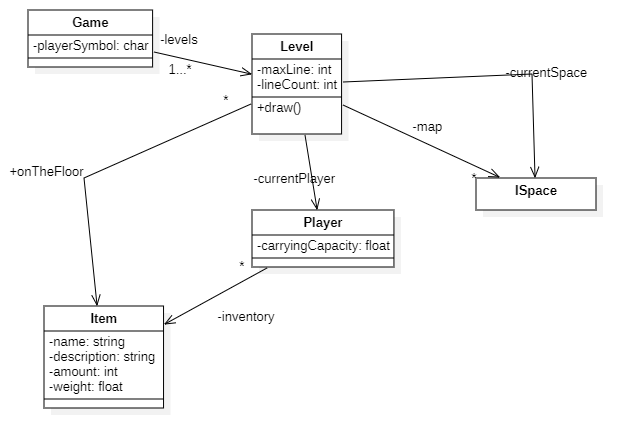
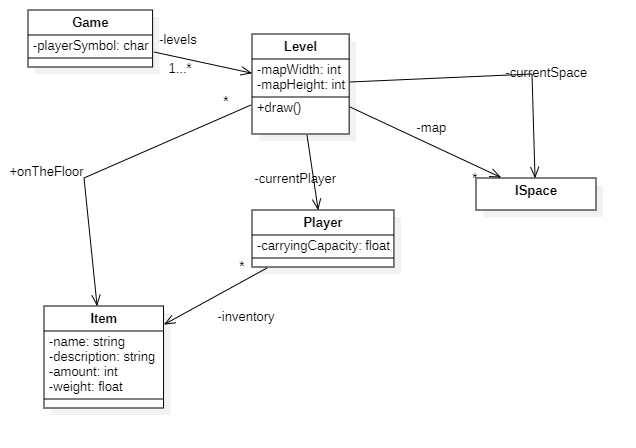
Cleaned up variable names, did the better default "wall" stuff

diff --git a/COEN244AdventureGameV1/Level.cpp b/COEN244AdventureGameV1/Level.cpp
@@ -22,7 +22,7 @@ Level::Level(std::ifstream& levelFile) {
 	//looking for the longest line
 	while (getline(levelFile, line)) {
 		lines++;
-		if (line.size() > maxLine) maxLine = line.size();
+		if (line.size() > mapWidth) mapWidth = (int)line.size();
 	}
 
 
@@ -36,54 +36,53 @@ Level::Level(std::ifstream& levelFile) {
 	levelFile.seekg(0, ios::beg);
 
 
-	cout << maxLine << " " << lines << " " << (maxLine*lines) << endl;
+	cout << mapWidth << " " << lines << " " << (mapWidth*lines) << endl;
 
-	map = new ISpace*[maxLine * lines];
+	map = new ISpace*[mapWidth * lines];
 	lines = 0;
 
 	//We loop through all the lines
 	//We print the lines to the beginning of 
 	//the corresponding line in the dynamic array
 	//that represents the level
-	Wall *aWall = new Wall();
 	while (getline(levelFile, line)) {
 		int i;
 		for (i = 0; i < line.size(); i++) {
 			switch (line[i]) {
 			case '#' :
-				map[maxLine * lines + i] = aWall;
+				map[mapWidth * lines + i] = Wall::WALL;
 				break;
 			case '@' :
-				map[maxLine * lines + i] = new Floor(*aWall);
-				currentSpace = map[maxLine * lines + i];
+				map[mapWidth * lines + i] = new Floor();
+				currentSpace = map[mapWidth * lines + i];
 				break;
 			case '.':
-				map[maxLine * lines + i] = new Floor(*aWall);
+				map[mapWidth * lines + i] = new Floor();
 				break;
 			default:
-				map[maxLine * lines + i] = new Other(*aWall, line[i]);
+				map[mapWidth * lines + i] = new Other(line[i]);
 				break;
 			}
 			
 		}
 		//If the map line was short, print spaces
-		for (; i < maxLine; i++) {
-			map[maxLine * lines + i] = new VoidSpace();
+		for (; i < mapWidth; i++) {
+			map[mapWidth * lines + i] = new VoidSpace();
 		}
 		lines++;
 	}
-	lineCount = lines;
+	mapHeight = lines;
 
-	for (int y = 0; y < lineCount; y++) {
-		for (int x = 0; x < maxLine; x++) {
+	for (int y = 0; y < mapHeight; y++) {
+		for (int x = 0; x < mapWidth; x++) {
 			if (y > 0) 
-				map[y * maxLine + x]->setNorth(*map[(y - 1) * maxLine + x]);
-			if (y < (lineCount-1))
-				map[y * maxLine + x]->setSouth(*map[(y + 1) * maxLine + x]);
+				map[y * mapWidth + x]->setNorth(*map[(y - 1) * mapWidth + x]);
+			if (y < (mapHeight-1))
+				map[y * mapWidth + x]->setSouth(*map[(y + 1) * mapWidth + x]);
 			if (x > 0)
-				map[y * maxLine + x]->setWest(*map[y * maxLine + x-1]);
-			if (x < (maxLine-1))
-				map[y * maxLine + x]->setEast(*map[y * maxLine + x + 1]);
+				map[y * mapWidth + x]->setWest(*map[y * mapWidth + x-1]);
+			if (x < (mapWidth-1))
+				map[y * mapWidth + x]->setEast(*map[y * mapWidth + x + 1]);
 		}
 
 		
@@ -101,10 +100,10 @@ void Level::draw()
 {
 	system("CLS");
 	using namespace std;
-	for (int y = 0; y < lineCount; y++) {
-		for (int x = 0; x < maxLine; x++) {
-			if (map[y * maxLine + x] == currentSpace) cout << '@';
-			else map[y * maxLine + x]->draw();
+	for (int y = 0; y < mapHeight; y++) {
+		for (int x = 0; x < mapWidth; x++) {
+			if (map[y * mapWidth + x] == currentSpace) cout << '@';
+			else map[y * mapWidth + x]->draw();
 		}
 		cout << endl;
 	}

diff --git a/COEN244AdventureGameV1/ISpace.h b/COEN244AdventureGameV1/ISpace.h
@@ -19,6 +19,7 @@ public:
 class Wall :
     public ISpace
 {
+public:
     void draw() {
         std::cout << "#";
     }
@@ -31,8 +32,11 @@ class Wall :
         return *this;
     }
 
-};
+	static Wall * WALL;
 
+private:
+	static Wall w;
+};
 
 class VoidSpace :
     public Wall
@@ -45,10 +49,7 @@ class VoidSpace :
 class Floor : public ISpace
 {
 public:
-	Floor(ISpace& defaultSpace) : north(&defaultSpace),
-		south(&defaultSpace),
-		east(&defaultSpace),
-		west(&defaultSpace) {}
+	Floor() {}
 
 	virtual ISpace& move(ISpace& origin) {
 		return *this;
@@ -58,7 +59,7 @@ public:
 
 
 	virtual void draw() {
-		std::cout << "@";
+		std::cout << ".";
 	};
 
 	void setNorth(ISpace& s) { north = &s; }
@@ -67,10 +68,10 @@ public:
 	void setWest(ISpace& s) { west = &s; }
 
 private:
-	ISpace* north;
-	ISpace* south;
-	ISpace* east;
-	ISpace* west;
+	ISpace* north = Wall::WALL;
+	ISpace* south = Wall::WALL;
+	ISpace* east = Wall::WALL;
+	ISpace* west = Wall::WALL;
 
 };
 
@@ -85,7 +86,7 @@ class Other :
 	public Floor
 {
 public:
-	Other(Floor def, char c) : Floor(def), c(c) {
+	Other(char c) : c(c) {
 		std::cout << "Found an unexpected character " << c << std::endl;
 	}
 private:

diff --git a/COEN244AdventureGameV1/Level.h b/COEN244AdventureGameV1/Level.h
@@ -12,8 +12,8 @@ public:
 
 private:
 	ISpace** map;
-	int maxLine = 0;
-	int lineCount;
+	int mapWidth = 0;
+	int mapHeight;
 	Player p;
 	ISpace *currentSpace;
 };

diff --git a/COEN244AdventureGameV1/Wall.cpp b/COEN244AdventureGameV1/Wall.cpp
@@ -1,0 +1,4 @@
+#include "ISpace.h"
+
+Wall Wall::w;
+Wall *Wall::WALL = &Wall::w;
